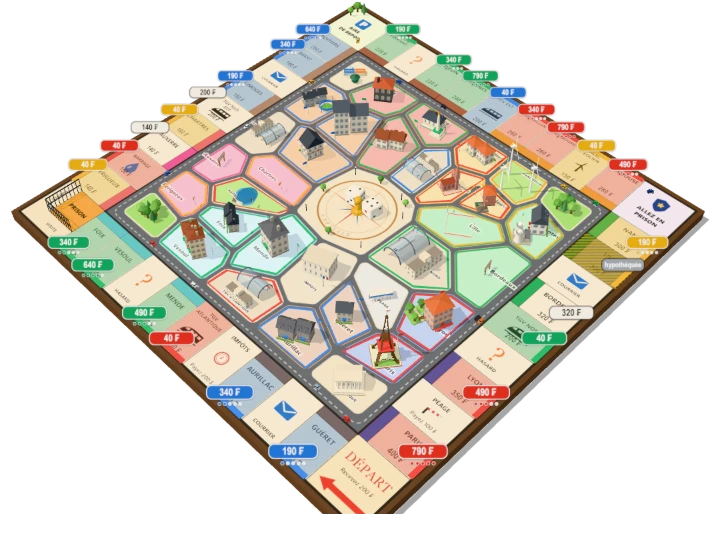
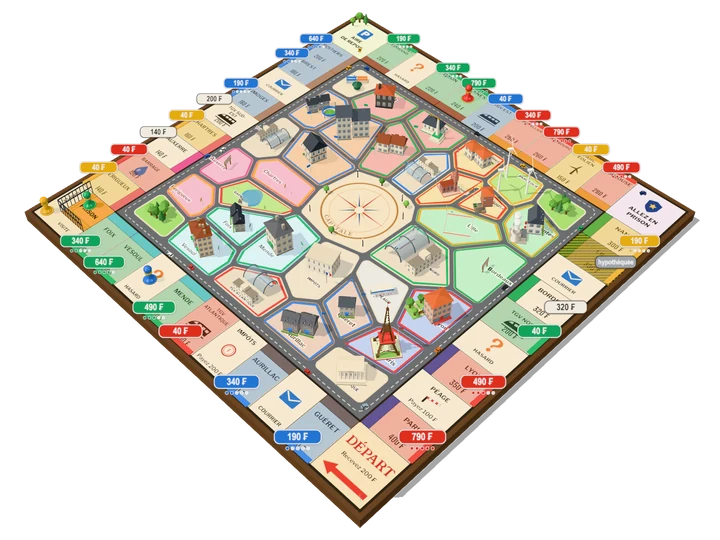
Capitale sur l'accueil : l'aperçu du plateau rendu en entier (la pointe du Départ n'est plus coupée), pion et dés recalés par projection depuis la scène

diff --git a/src/client/capitale/CapitalePreview.tsx b/src/client/capitale/CapitalePreview.tsx
@@ -2,49 +2,49 @@
 // en SVG, une partie qui tourne : les dés roulent au centre, un pion avance case par case et fait le tour du plateau, puis
 // touche ses 200 F en repassant par le Départ. Les animations sont en CSS (des @keyframes calculées ici une fois pour toutes).
 
-/** Le centre de chaque case sur l'image (720 × 540), du Départ (0) à la dernière avant lui (39), et la taille du pion à
- *  cette profondeur : relevés en perspective depuis les quatre coins du plateau de l'image. */
+/** Là où se tient un pion sur chaque case de l'image (720 × 540), du Départ (0) à la dernière avant lui (39), et la taille
+ *  du pion à cette profondeur : projetés depuis la scène 3D qui a rendu l'image (même caméra). */
 const TRACK: [number, number, number][] = [
-  [356.5, 471.1, 1],
-  [312.2, 432.5, 0.963],
-  [281.3, 405.6, 0.938],
-  [251.4, 379.6, 0.914],
-  [222.6, 354.6, 0.891],
-  [194.7, 330.3, 0.868],
-  [167.8, 306.8, 0.847],
-  [141.7, 284.2, 0.827],
-  [116.5, 262.2, 0.807],
-  [92, 240.9, 0.788],
-  [59.7, 212.7, 0.763],
-  [102, 186.7, 0.741],
-  [131.8, 168.4, 0.726],
-  [160.8, 150.6, 0.711],
-  [189, 133.3, 0.696],
-  [216.5, 116.5, 0.682],
-  [243.2, 100.1, 0.669],
-  [269.2, 84.1, 0.656],
-  [294.6, 68.6, 0.643],
-  [319.3, 53.4, 0.631],
-  [352.2, 33.2, 0.615],
-  [385.7, 54.2, 0.632],
-  [410.7, 70, 0.645],
-  [436.5, 86.2, 0.659],
-  [463, 102.9, 0.673],
-  [490.3, 120, 0.687],
-  [518.4, 137.7, 0.702],
-  [547.2, 155.8, 0.718],
-  [577, 174.5, 0.734],
-  [607.6, 193.8, 0.75],
-  [651.3, 221.3, 0.775],
-  [618.9, 248.8, 0.798],
-  [594.4, 269.5, 0.817],
-  [569.2, 290.9, 0.835],
-  [543.2, 312.9, 0.855],
-  [516.4, 335.6, 0.875],
-  [488.8, 359, 0.897],
-  [460.2, 383.2, 0.919],
-  [430.7, 408.3, 0.941],
-  [400.2, 434.1, 0.965],
+  [360, 465.5, 0.97],
+  [314, 432.7, 0.947],
+  [287.6, 401.5, 0.925],
+  [253.4, 378.7, 0.908],
+  [229.3, 349.9, 0.888],
+  [201.9, 325.7, 0.871],
+  [171, 305.4, 0.856],
+  [150.1, 279.9, 0.838],
+  [121.2, 261.1, 0.825],
+  [97.6, 240.1, 0.81],
+  [73.2, 211.8, 0.79],
+  [110.3, 184.9, 0.771],
+  [143.7, 169, 0.759],
+  [169.9, 148.8, 0.745],
+  [198.3, 131.7, 0.733],
+  [228.8, 117.3, 0.723],
+  [252.2, 99, 0.71],
+  [281.1, 85.5, 0.7],
+  [302.9, 68.4, 0.688],
+  [327.1, 53.7, 0.678],
+  [360, 37.6, 0.666],
+  [392.9, 53.7, 0.678],
+  [414, 70.4, 0.689],
+  [442, 83.5, 0.699],
+  [467.8, 99, 0.71],
+  [491.2, 117.3, 0.723],
+  [521.7, 131.7, 0.733],
+  [550.1, 148.8, 0.745],
+  [576.3, 169, 0.759],
+  [609.7, 184.9, 0.771],
+  [646.8, 211.8, 0.79],
+  [622.4, 240.1, 0.81],
+  [598.8, 261.1, 0.825],
+  [569.9, 279.9, 0.838],
+  [549, 305.4, 0.856],
+  [518.1, 325.7, 0.871],
+  [490.7, 349.9, 0.888],
+  [466.7, 378.7, 0.908],
+  [432.4, 401.5, 0.925],
+  [406, 432.7, 0.947],
 ];
 
 /** Les lancers d'un tour de plateau : 40 cases en tout, le pion revient au Départ et la boucle reprend sans saut */
@@ -62,15 +62,16 @@ const HOP = 0.27; // un saut de case
 const REST = 0.8; // le temps de regarder où l'on est tombé
 const PERIOD = ROLLS.length * (ROLL + REST) + TRACK.length * HOP;
 
-/** Les deux dés, posés sur ceux de l'image (qu'une tache de la couleur de la place efface), et leur forme vue du ciel */
+/** Les deux dés, sur la rose des vents de la place (l'image a été rendue sans les siens), et leur forme vue du ciel */
 const DICE = [
-  { x: 352, y: 198, lean: -4, spin: 1, late: 0 },
-  { x: 374, y: 212, lean: 5, spin: -1, late: 0.06 },
+  { x: 349.3, y: 200.2, lean: -4, spin: 1, late: 0 },
+  { x: 370.7, y: 213.8, lean: 5, spin: -1, late: 0.06 },
 ];
-// Le dessus du dé : un carré du plateau, vu en perspective (demi-côtés le long des deux bords du plateau), et sa hauteur
-const HU = [-6.1, -4.4];
-const HV = [6, -4.2];
-const DIE_H = 9.5;
+// Le dessus du dé : un carré du plateau, vu en perspective (demi-côtés le long des deux bords du plateau), et sa hauteur ;
+// projetés depuis la scène, un dixième plus gros que les dés du jeu pour qu'on les lise
+const HU = [-6.1, -4.3];
+const HV = [6, -4.3];
+const DIE_H = 12;
 const at = (u: number, v: number, lift = 0) => [HU[0]! * u + HV[0]! * v, HU[1]! * u + HV[1]! * v - lift] as const;
 const pts = (list: (readonly [number, number])[]) => list.map(([x, y]) => `${x.toFixed(1)},${y.toFixed(1)}`).join(" ");
 // Le dé est dessiné autour de son milieu : la face du dessus au-dessus, celle du dessous en dessous
@@ -234,18 +235,12 @@ export function CapitalePreview({ px }: { px: number }) {
       <svg className="capitale-preview-life" viewBox="0 0 720 540" aria-hidden="true">
         <style>{KEYFRAMES}</style>
         <defs>
-          <radialGradient id="cap-pv-plaza">
-            <stop offset="0.62" stopColor="#f6e4c3" />
-            <stop offset="1" stopColor="#f6e4c3" stopOpacity="0" />
-          </radialGradient>
           <linearGradient id="cap-pv-pawn" x1="0" y1="0" x2="1" y2="0">
             <stop offset="0" stopColor="#b48cf2" />
             <stop offset="0.45" stopColor="#8a5ad8" />
             <stop offset="1" stopColor="#5a3399" />
           </linearGradient>
         </defs>
-        {/* Les dés de l'image, effacés : les nôtres roulent à leur place */}
-        <ellipse cx={363} cy={206} rx={30} ry={21} fill="url(#cap-pv-plaza)" />
         <Die index={0} />
         <Die index={1} />
         {/* Le pion (son ombre reste au sol pendant qu'il saute) */}
